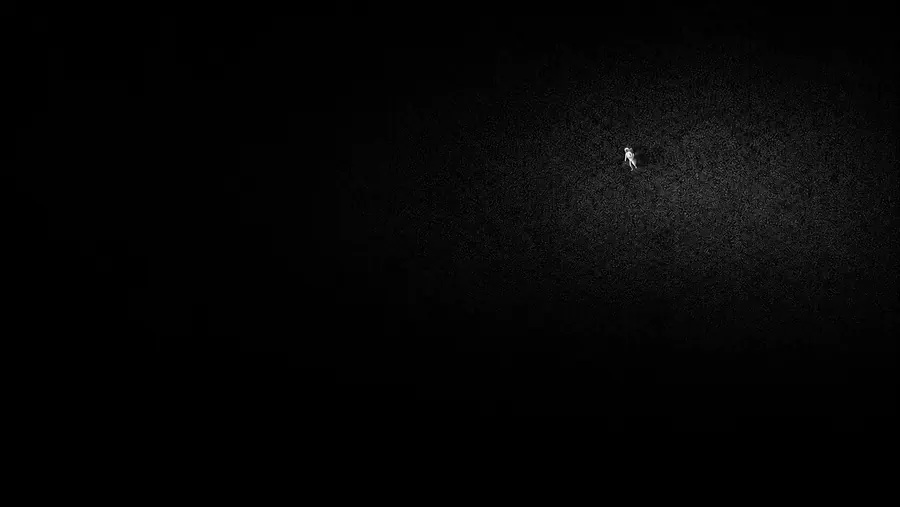
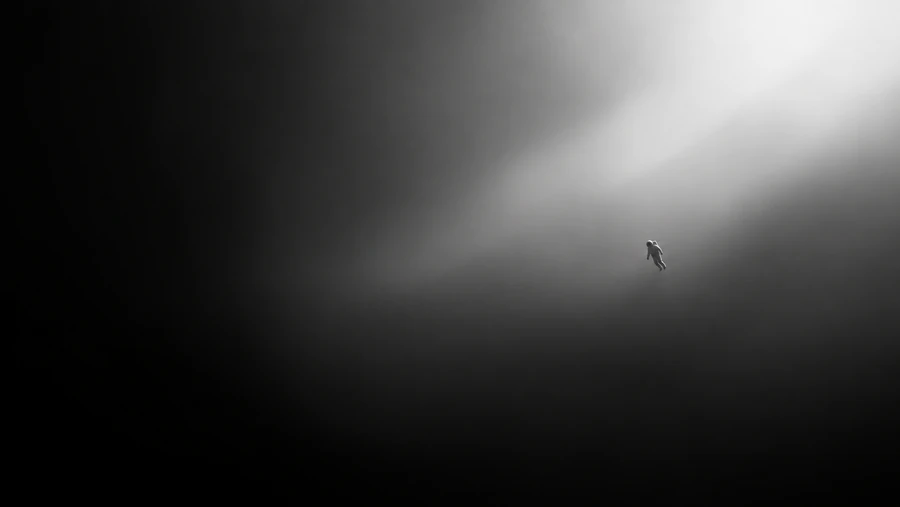
Regenerate the hero image for the new lighting
The replacement artwork is a bright diagonal light shaft rather than the
near-black field it succeeds, which reverses what the scrims need to do:

- Restore a meaningful top scrim. The shaft crosses exactly where the navbar
  sits, and white nav links over a near-white frame were unreadable.
- Keep a mid-strength bottom scrim for the headline and supporting copy.
- Nudge the mobile crop from 72% to 78%. The figure sits slightly further
  right in this version and was landing 73px from the edge.

Smooth gradients band under compression, so quality goes up to 92/90. The
image is far cleaner than the stippled version it replaces, so the files are
smaller even at that setting: 71KB -> 18KB desktop, 15KB -> 6KB mobile.

diff --git a/client/src/components/HeroBackdrop.tsx b/client/src/components/HeroBackdrop.tsx
@@ -38,7 +38,7 @@ export default function HeroBackdrop() {
             alt=""
             fetchPriority="high"
             decoding="async"
-            className="w-full h-full object-cover object-[72%_50%] md:object-center"
+            className="w-full h-full object-cover object-[78%_50%] md:object-center"
             onError={(e) => {
               // No image yet — fall back to the plain black hero.
               e.currentTarget.style.display = "none";
@@ -47,12 +47,13 @@ export default function HeroBackdrop() {
         </picture>
       </motion.div>
 
-      {/* The artwork is already almost entirely black, so the scrims are kept
-          deliberately light — anything heavier erases the glow and the figure,
-          which are the only things in the frame. Bottom seats the headline;
-          top just takes the edge off behind the navbar. */}
-      <div className="absolute inset-x-0 bottom-0 h-2/5 bg-gradient-to-t from-black to-transparent" />
-      <div className="absolute inset-x-0 top-0 h-24 bg-gradient-to-b from-black/50 to-transparent" />
+      {/* The light shaft runs from the top-right down to centre, so the two
+          places text sits are the two places that need protecting: the navbar
+          crosses the brightest part of the frame, and the headline block sits
+          over the mid-tones at the foot. Both scrims are directional so the
+          shaft itself stays intact. */}
+      <div className="absolute inset-x-0 top-0 h-28 md:h-32 bg-gradient-to-b from-black/75 via-black/35 to-transparent" />
+      <div className="absolute inset-x-0 bottom-0 h-1/2 bg-gradient-to-t from-black via-black/45 to-transparent" />
     </div>
   );
 }
